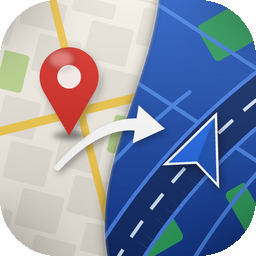
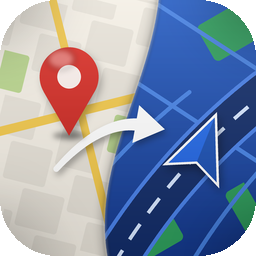
Draw wide curves as smooth offset polygons
Roads, streets, dashes, the divider rim and the tapered arrow were PIL
polylines, whose round joints show as a scalloped edge on wide curves.
They are now single polygons offset from a dense centre line.

Claude-Session: https://claude.ai/code/session_01WPym94FLSeSwsxcNq83R7E

diff --git a/docs/design/build-icon.py b/docs/design/build-icon.py
@@ -57,7 +57,7 @@ CHEV_CENTER, CHEV_SIZE, CHEV_ANGLE = (0.79, 0.58), 0.13, 22              # degre
 def P(x, y): return (x * S, y * S)
 def px(v): return v * S
 
-def bezier(p0, p1, p2, p3=None, n=64):
+def bezier(p0, p1, p2, p3=None, n=240):
     pts = []
     for i in range(n + 1):
         t = i / n
@@ -87,9 +87,23 @@ def shadow_of(img, blur, dx, dy, alpha=0.35):
     sh = sh.filter(ImageFilter.GaussianBlur(px(blur)))
     out = layer(); out.alpha_composite(sh, (int(px(dx)), int(px(dy)))); return out
 
-def stroke(d, pts, w, fill):
-    d.line(pts, fill=fill, width=int(w), joint="curve")
-    for p in (pts[0], pts[-1]): d.ellipse([p[0]-w/2, p[1]-w/2, p[0]+w/2, p[1]+w/2], fill=fill)
+def stroke(d, pts, w, fill, w_end=None, caps=True):
+    """Smooth wide stroke: one polygon offset from the centre line, so curves have no segment joints.
+    w_end lets the width taper linearly from w at the start to w_end at the end."""
+    if w_end is None: w_end = w
+    n = len(pts) - 1
+    left, right = [], []
+    for i, (x, y) in enumerate(pts):
+        a = pts[max(i - 1, 0)]; b = pts[min(i + 1, n)]
+        tx, ty = b[0] - a[0], b[1] - a[1]
+        L = math.hypot(tx, ty) or 1.0
+        nx, ny = -ty / L, tx / L
+        hw = (w + (w_end - w) * i / n) / 2
+        left.append((x + nx * hw, y + ny * hw)); right.append((x - nx * hw, y - ny * hw))
+    d.polygon(left + right[::-1], fill=fill)
+    if caps:
+        for p, hw in ((pts[0], w / 2), (pts[-1], w_end / 2)):
+            d.ellipse([p[0]-hw, p[1]-hw, p[0]+hw, p[1]+hw], fill=fill)
 
 def rotate(pt, c, deg):
     a = math.radians(deg); x, y = pt[0]-c[0], pt[1]-c[1]
@@ -130,25 +144,27 @@ for (cx, cy, w, h, deg) in [(0.90, 0.12, 0.22, 0.16, 30), (0.60, 0.92, 0.20, 0.1
 rd = ImageDraw.Draw(night)
 # thin streets
 for off in (-0.30, 0.30):
-    stroke(rd, bezier(P(0.44 + off, 1.04), P(0.68 + off, 0.64), P(1.04 + off, 0.36), n=32), px(0.016), STREET_R + (255,))
+    stroke(rd, bezier(P(0.44 + off, 1.04), P(0.68 + off, 0.64), P(1.04 + off, 0.36)), px(0.016), STREET_R + (255,))
 for (x0, y0, x1, y1) in [(0.50, 0.30, 1.05, 0.66), (0.62, 0.02, 1.05, 0.30)]:
     stroke(rd, [P(x0, y0), P(x1, y1)], px(0.016), STREET_R + (255,))
 # the wide road, bottom-left to top-right, with soft edges and a dashed centre line
-road_pts = bezier(P(0.44, 1.04), P(0.68, 0.64), P(1.04, 0.36), n=48)
+road_pts = bezier(P(0.44, 1.04), P(0.68, 0.64), P(1.04, 0.36))
 stroke(rd, road_pts, px(0.185), ROAD_EDGE + (255,))
 stroke(rd, road_pts, px(0.155), ROAD_DARK + (255,))
-# dashes: walk the curve and draw short segments
-total = 0.0; seg_on = px(0.07); seg_off = px(0.05); on = True; start = road_pts[0]; acc = 0.0
+# dashes: split the centre line into on/off runs by arc length and stroke each run smoothly
+seg_on, seg_off = px(0.07), px(0.05)
+acc, on, run = 0.0, True, [road_pts[0]]
 for i in range(1, len(road_pts)):
     a, b = road_pts[i-1], road_pts[i]
-    d = math.dist(a, b)
-    if on: rd.line([a, b], fill=DASH + (255,), width=int(px(0.014)))
-    acc += d
-    if on and acc >= seg_on: on = False; acc = 0
-    elif not on and acc >= seg_off: on = True; acc = 0
+    acc += math.dist(a, b); run.append(b)
+    if on and acc >= seg_on:
+        stroke(rd, run, px(0.014), DASH + (255,), caps=False); on, acc, run = False, 0.0, [b]
+    elif not on and acc >= seg_off:
+        on, acc, run = True, 0.0, [b]
+if on and len(run) > 1: stroke(rd, run, px(0.014), DASH + (255,), caps=False)
 
 # mask the night panel to the right of the divider curve
-div = bezier(P(*DIV_TOP), P(*DIV_C1), P(*DIV_C2), P(*DIV_BOTTOM), n=96)
+div = bezier(P(*DIV_TOP), P(*DIV_C1), P(*DIV_C2), P(*DIV_BOTTOM))
 mask = Image.new("L", (S, S), 0)
 ImageDraw.Draw(mask).polygon(div + [(S, S), (S, 0)], fill=255)
 night.putalpha(mask)
@@ -168,14 +184,10 @@ canvas.alpha_composite(edge_sh)
 
 # ---------------------------------------------------------------- 4. arrow
 arrow = layer(); ad = ImageDraw.Draw(arrow)
-apts = bezier(P(*ARROW_P0), P(*ARROW_C), P(*ARROW_P1), n=64)
+apts = bezier(P(*ARROW_P0), P(*ARROW_C), P(*ARROW_P1))
 w = px(ARROW_WIDTH)
-# taper: thin at the tail, full at the head
-for i in range(1, len(apts)):
-    t = i / (len(apts) - 1)
-    ww = w * (0.45 + 0.55 * t)
-    ad.line([apts[i-1], apts[i]], fill=WHITE + (255,), width=int(ww))
-    ad.ellipse([apts[i][0]-ww/2, apts[i][1]-ww/2, apts[i][0]+ww/2, apts[i][1]+ww/2], fill=WHITE + (255,))
+# taper: thin at the tail, full at the head, as one smooth polygon
+stroke(ad, apts, w * 0.45, WHITE + (255,), w_end=w)
 # arrowhead aligned with the curve's end tangent
 ex, ey = apts[-1]; tx, ty = apts[-1][0]-apts[-4][0], apts[-1][1]-apts[-4][1]
 n = math.hypot(tx, ty); tx, ty = tx/n, ty/n; nx, ny = -ty, tx
